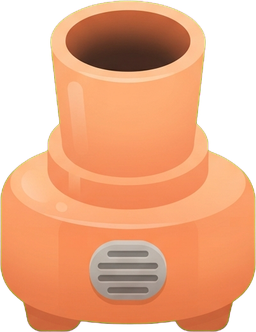
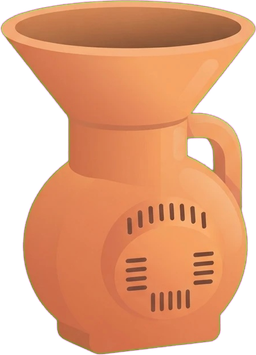
Neues gedrungenes Gebläse aus Gemini, Maße neu gemessen
Claude-Session: https://claude.ai/code/session_018yCfLPpgwcBfHRdXPLjdDA

diff --git a/src/spiel/bildmasse.ts b/src/spiel/bildmasse.ts
@@ -6,11 +6,11 @@ import { MUND } from './physik.ts';
 /** Das Geblaesebild (public/bilder/geblaese.png), Anteile an Breite bzw. Hoehe. */
 export const GEBLAESE_BILD = {
   /** Breite zu Hoehe des ganzen Bilds. */
-  seiten: 0.7701,
+  seiten: 0.7207,
   /** Mitte der Trichteroeffnung, Anteil der Bildbreite. */
-  oeffnungMitte: 0.4988,
+  oeffnungMitte: 0.5,
   /** Aussenbreite des Trichterrands, Anteil der Bildbreite. */
-  oeffnungBreite: 0.6045,
+  oeffnungBreite: 0.9911,
 };
 
 /**
@@ -20,8 +20,11 @@ export const GEBLAESE_BILD = {
  * Mit 56 px ragte das Bild so weit unter den Rand, dass vom Motor fast nichts
  * mehr zu sehen war (02.10.2026). Das erste Bild mit langem Rohr waere sogar
  * nur 12 px schmal gewesen.
+ * Seit 23.11.2026 (Gemini-Gebläse in 3D-Optik) ist der Trichter so breit wie
+ * das ganze Gerät. Mit 68 px (= Strahl) reicht es fast von der Düse bis zum Boden; der
+ * Strahl tritt also aus der vollen Öffnung.
  */
-export const TRICHTER_BREITE = 48;
+export const TRICHTER_BREITE = 68;
 
 /** Die Groesse, in der das Geblaesebild gezeichnet wird. */
 export function geblaeseMass() {
